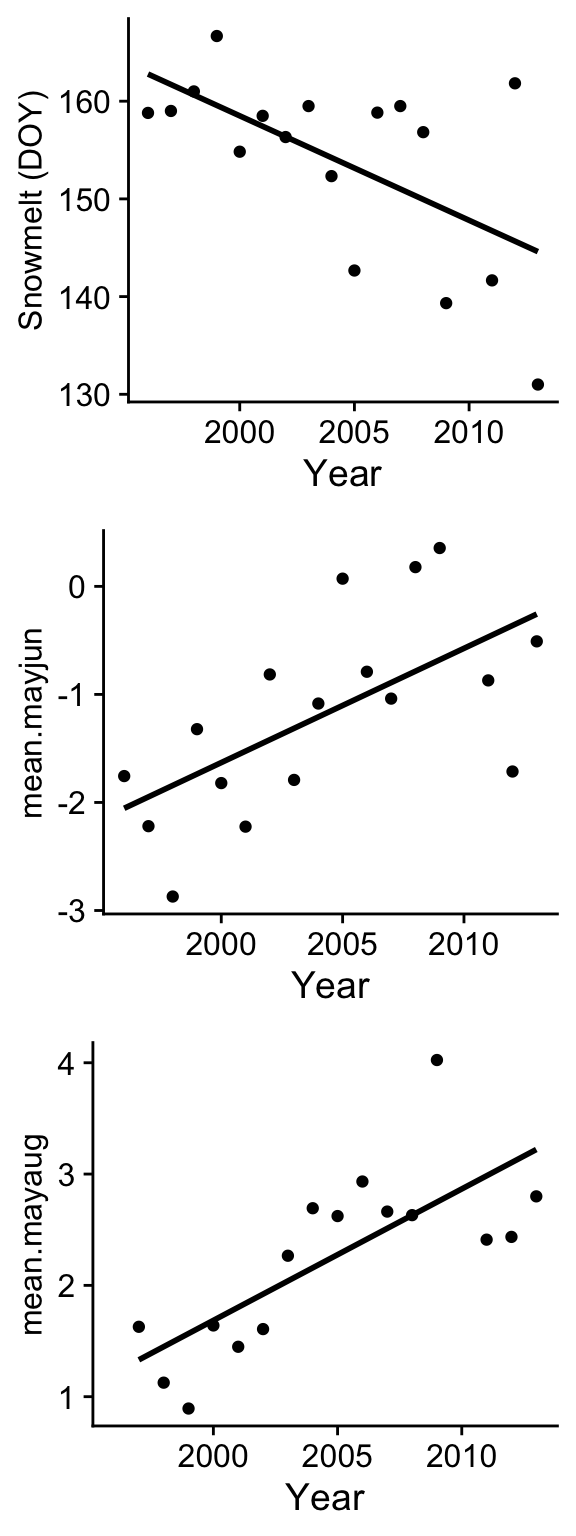
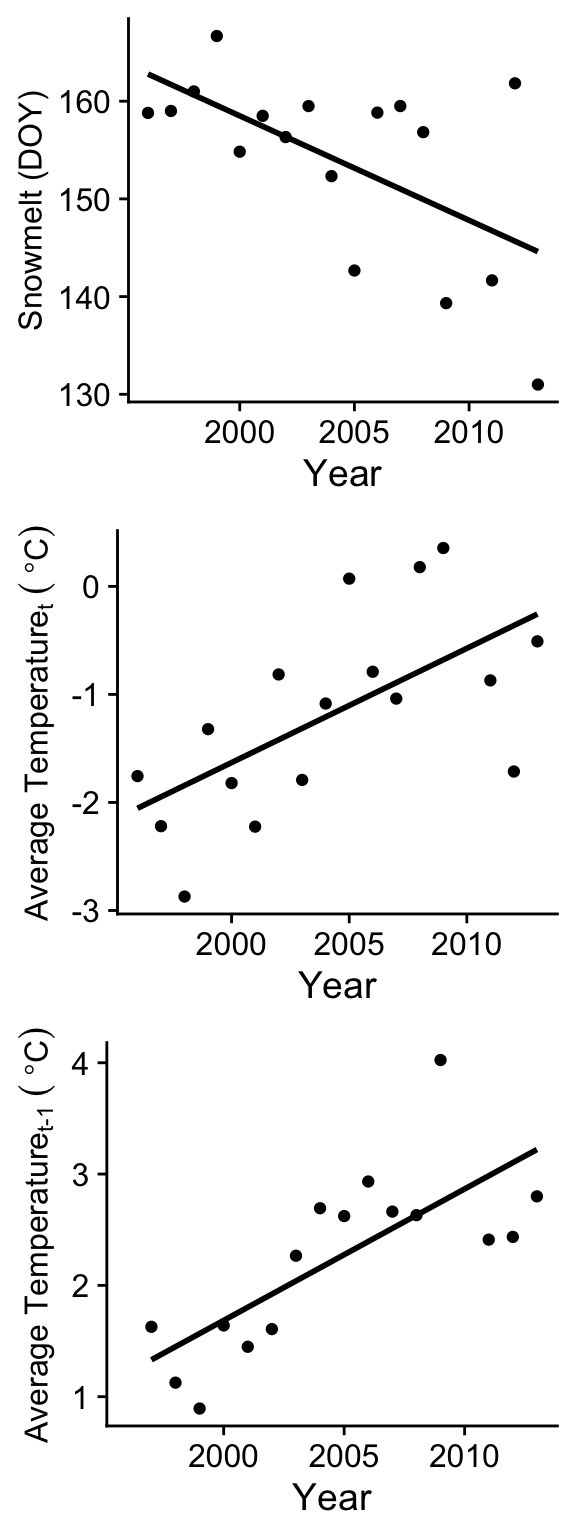
update module

diff --git a/Ex1.Plot_Bowden.html b/Ex1.Plot_Bowden.html
@@ -14,7 +14,7 @@
 
 <title>Worked Example: Plotting the change in butterfly size with climate change</title>
 
-<script src="site_libs/header-attrs-2.16/header-attrs.js"></script>
+<script src="site_libs/header-attrs-2.21/header-attrs.js"></script>
 <script src="site_libs/jquery-3.6.0/jquery-3.6.0.min.js"></script>
 <meta name="viewport" content="width=device-width, initial-scale=1" />
 <link href="site_libs/bootstrap-3.3.5/css/sandstone.min.css" rel="stylesheet" />
@@ -182,8 +182,8 @@ $(document).ready(function () {
   border-radius: 4px;
 }
 
-.tabset-dropdown > .nav-tabs > li.active:before {
-  content: "";
+.tabset-dropdown > .nav-tabs > li.active:before, .tabset-dropdown > .nav-tabs.nav-tabs-open:before {
+  content: "\e259";
   font-family: 'Glyphicons Halflings';
   display: inline-block;
   padding: 10px;
@@ -191,16 +191,9 @@ $(document).ready(function () {
 }
 
 .tabset-dropdown > .nav-tabs.nav-tabs-open > li.active:before {
-  content: "&#xe258;";
-  border: none;
-}
-
-.tabset-dropdown > .nav-tabs.nav-tabs-open:before {
-  content: "";
+  content: "\e258";
   font-family: 'Glyphicons Halflings';
-  display: inline-block;
-  padding: 10px;
-  border-right: 1px solid #ddd;
+  border: none;
 }
 
 .tabset-dropdown > .nav-tabs > li.active {
@@ -350,7 +343,7 @@ div.tocify {
 <h1 class="title toc-ignore">Worked Example: Plotting the change in
 butterfly size with climate change</h1>
 <h4 class="author">Dai Shizuka</h4>
-<h4 class="date">updated 11/15/22</h4>
+<h4 class="date">updated 09/28/23</h4>
 
 </div>
 
@@ -384,10 +377,11 @@ id="fnref1"><sup>1</sup></a> This study used a 17-year dataset on wing
 lengths of two butterfly species in Greenland to show that both species
 follow the “temperature-size” rule, which posits that higher
 temperatures generally select for smaller adult body size.</p>
-<div class="figure">
-<img src="images/butterflies.png" alt="" />
-<p class="caption"><em>Boloria chariclea</em> and <em>Colias
-hecla</em></p>
+<div class="float">
+<img src="images/butterflies.png"
+alt="Boloria chariclea and Colias hecla" />
+<div class="figcaption"><em>Boloria chariclea</em> and <em>Colias
+hecla</em></div>
 </div>
 <p>Aside from it being an interesting story, I chose this paper as an
 example for several reasons. First, the data are pretty
@@ -446,12 +440,13 @@ panels and shows how the snowmelt dat, average May-June temperature, and
 average May-August temperature (of the previous year) has changed across
 the study period. They present this as a scatterplot and a simple linear
 regression fit line.</p>
-<div class="figure">
-<img src="images/Ex1_Fig1.png" alt="" />
-<p class="caption">Figure 1 from Bowden et al. (2015): (a) Timing of
-snowmelt (<span class="math inline">\(F_{1,16}\)</span> = 8.92, estimate
-= -1.05, <span class="math inline">\(R^2_{Adj}\)</span> = 0.32, <span
-class="math inline">\(p\)</span> &lt; 0.008), (b) <span
+<div class="float">
+<img src="images/Ex1_Fig1.png"
+alt="Figure 1 from Bowden et al. (2015): (a) Timing of snowmelt (F_{1,16} = 8.92, estimate = -1.05, R^2_{Adj} = 0.32, p &lt; 0.008), (b) May-June_t temperature (F_{1,16} = 10.87, estimate = 0.11, R^2_{Adj} = 0.37, p &lt; 0.005) and (c) May-June_{t-1} temperature (F_{1,16} = 22.52, estimate = 0.11, R^2_{Adj} = 0.56, p &lt; 0.001) from 1996-2013 at Zackenberg, Greenland" />
+<div class="figcaption">Figure 1 from Bowden et al. (2015): (a) Timing
+of snowmelt (<span class="math inline">\(F_{1,16}\)</span> = 8.92,
+estimate = -1.05, <span class="math inline">\(R^2_{Adj}\)</span> = 0.32,
+<span class="math inline">\(p\)</span> &lt; 0.008), (b) <span
 class="math inline">\(May-June_t\)</span> temperature (<span
 class="math inline">\(F_{1,16}\)</span> = 10.87, estimate = 0.11, <span
 class="math inline">\(R^2_{Adj}\)</span> = 0.37, <span
@@ -460,7 +455,7 @@ class="math inline">\(May-June_{t-1}\)</span> temperature (<span
 class="math inline">\(F_{1,16}\)</span> = 22.52, estimate = 0.11, <span
 class="math inline">\(R^2_{Adj}\)</span> = 0.56, <span
 class="math inline">\(p\)</span> &lt; 0.001) from 1996-2013 at
-Zackenberg, Greenland</p>
+Zackenberg, Greenland</div>
 </div>
 <p><strong>Alright, let’s try to re-create this!</strong></p>
 <div id="multi-panel-scatterplot-using-ggplot-and-cowplot"
@@ -518,29 +513,29 @@ this plot by using <code>stat_smooth(method="lm")</code>:</p>
   geom_point() +
   stat_smooth(method=&quot;lm&quot;)
 p1</code></pre>
-<pre><code>## `geom_smooth()` using formula &#39;y ~ x&#39;</code></pre>
+<pre><code>## `geom_smooth()` using formula = &#39;y ~ x&#39;</code></pre>
 <p><img src="Ex1.Plot_Bowden_files/figure-html/unnamed-chunk-5-1.png" width="384" /></p>
 <p>Let’s get rid of the confidence interval and make the line black.</p>
 <pre class="r"><code>p1=ggplot(year.dat, aes(x=year, y=mean.snow)) +
   geom_point() +
   stat_smooth(method=&quot;lm&quot;, se=FALSE, color=&quot;black&quot;)
 p1</code></pre>
-<pre><code>## `geom_smooth()` using formula &#39;y ~ x&#39;</code></pre>
+<pre><code>## `geom_smooth()` using formula = &#39;y ~ x&#39;</code></pre>
 <p><img src="Ex1.Plot_Bowden_files/figure-html/unnamed-chunk-6-1.png" width="384" /></p>
 <p>We can plot the other two panels in the same way:</p>
 <pre class="r"><code>p2=ggplot(year.dat, aes(x=year, y=mean.mayjun)) +
   geom_point() +
   stat_smooth(method=&quot;lm&quot;, se=FALSE, color=&quot;black&quot;)
 p2</code></pre>
-<pre><code>## `geom_smooth()` using formula &#39;y ~ x&#39;</code></pre>
+<pre><code>## `geom_smooth()` using formula = &#39;y ~ x&#39;</code></pre>
 <p><img src="Ex1.Plot_Bowden_files/figure-html/unnamed-chunk-7-1.png" width="384" /></p>
 <pre class="r"><code>p3=ggplot(year.dat, aes(x=year, y=mean.mayaug)) +
   geom_point() +
   stat_smooth(method=&quot;lm&quot;, se=FALSE, color=&quot;black&quot;)
 p3</code></pre>
-<pre><code>## `geom_smooth()` using formula &#39;y ~ x&#39;</code></pre>
-<pre><code>## Warning: Removed 1 rows containing non-finite values (stat_smooth).</code></pre>
-<pre><code>## Warning: Removed 1 rows containing missing values (geom_point).</code></pre>
+<pre><code>## `geom_smooth()` using formula = &#39;y ~ x&#39;</code></pre>
+<pre><code>## Warning: Removed 1 rows containing non-finite values (`stat_smooth()`).</code></pre>
+<pre><code>## Warning: Removed 1 rows containing missing values (`geom_point()`).</code></pre>
 <p><img src="Ex1.Plot_Bowden_files/figure-html/unnamed-chunk-8-1.png" width="384" /></p>
 <p>Now, we’ve created 3 different scatterplots. But what we want is to
 make one figure with 3 panels arranged vertically. How do we do
@@ -549,12 +544,13 @@ that?</p>
 making multi-panel plots very easy (The “cow” in “cowplot” stands for
 Claus O. Wilkes, who wrote the package).</p>
 <pre class="r"><code>plot_grid(p1, p2, p3, align=&quot;v&quot;, nrow=3) </code></pre>
-<pre><code>## `geom_smooth()` using formula &#39;y ~ x&#39;
-## `geom_smooth()` using formula &#39;y ~ x&#39;
-## `geom_smooth()` using formula &#39;y ~ x&#39;</code></pre>
-<pre><code>## Warning: Removed 1 rows containing non-finite values (stat_smooth).</code></pre>
-<pre><code>## Warning: Removed 1 rows containing missing values (geom_point).</code></pre>
-<p><img src="Ex1.Plot_Bowden_files/figure-html/unnamed-chunk-9-1.png" width="288" /></p>
+<pre><code>## `geom_smooth()` using formula = &#39;y ~ x&#39;
+## `geom_smooth()` using formula = &#39;y ~ x&#39;
+## `geom_smooth()` using formula = &#39;y ~ x&#39;</code></pre>
+<pre><code>## Warning: Removed 1 rows containing non-finite values (`stat_smooth()`).</code></pre>
+<pre><code>## Warning: Removed 1 rows containing missing values (`geom_point()`).</code></pre>
+<p><img src="Ex1.Plot_Bowden_files/figure-html/unnamed-chunk-9-1.png" width="288" />
+Now let’s clean up the theme and axis labels.</p>
 <pre class="r"><code>p1=ggplot(year.dat, aes(x=year, y=mean.snow)) +
   geom_point() +
   stat_smooth(method=&quot;lm&quot;, se=FALSE, color=&quot;black&quot;) +
@@ -566,7 +562,7 @@ p2=ggplot(year.dat, aes(x=year, y=mean.mayjun)) +
   geom_point() +
   stat_smooth(method=&quot;lm&quot;, se=FALSE, color=&quot;black&quot;) +
   theme_cowplot() +
-  labs(expression(paste(&quot;Average Temperature&quot;[&quot;t&quot;], 
+  labs(y=expression(paste(&quot;Average Temperature&quot;[&quot;t&quot;], 
     &quot; &quot;, (~degree * C))), x=&quot;Year&quot;) +
   theme(axis.title.y = element_text(size=12))
 
@@ -574,18 +570,17 @@ p3=ggplot(year.dat, aes(x=year, y=mean.mayaug)) +
   geom_point() +
   stat_smooth(method=&quot;lm&quot;, se=FALSE, color=&quot;black&quot;) +
   theme_cowplot() +
-  labs(expression(paste(&quot;Average Temperature&quot;[&quot;t-1&quot;], &quot; &quot;, 
+  labs(y=expression(paste(&quot;Average Temperature&quot;[&quot;t-1&quot;], &quot; &quot;, 
         (~degree * C))), x=&quot;Year&quot;) + 
   theme(axis.title.y = element_text(size=12))
 
 plot_grid(p1, p2, p3, nrow=3)</code></pre>
-<pre><code>## `geom_smooth()` using formula &#39;y ~ x&#39;
-## `geom_smooth()` using formula &#39;y ~ x&#39;
-## `geom_smooth()` using formula &#39;y ~ x&#39;</code></pre>
-<pre><code>## Warning: Removed 1 rows containing non-finite values (stat_smooth).</code></pre>
-<pre><code>## Warning: Removed 1 rows containing missing values (geom_point).</code></pre>
+<pre><code>## `geom_smooth()` using formula = &#39;y ~ x&#39;
+## `geom_smooth()` using formula = &#39;y ~ x&#39;
+## `geom_smooth()` using formula = &#39;y ~ x&#39;</code></pre>
+<pre><code>## Warning: Removed 1 rows containing non-finite values (`stat_smooth()`).</code></pre>
+<pre><code>## Warning: Removed 1 rows containing missing values (`geom_point()`).</code></pre>
 <p><img src="Ex1.Plot_Bowden_files/figure-html/unnamed-chunk-10-1.png" width="288" /></p>
-<p>We won’t worry about the minutiae of the axis labels.</p>
 <hr />
 </div>
 </div>
@@ -873,14 +868,15 @@ with the average wing length of males and females (and error bars) for
 each species (panels <em>a</em> and <em>b</em>), and the relationship
 between average wing length and the average May-August temperature of
 the previous year (panels <em>c</em> and <em>d</em>).</p>
-<div class="figure">
-<img src="images/Ex1_Fig2.png" alt="" />
-<p class="caption">Figure 2 from Bowden et al. (2015): <em>Inter-annual
-variation in average male (open circles) and female (filled circles)
-wing length over the sampling period for (a) Colias hecla and (b)
-Boloria chariclea and their responses (c,d, respectively) to average
-May–Augustt21 temperature. Error bars represent s.e. Data for 2010 are
-not available.</em></p>
+<div class="float">
+<img src="images/Ex1_Fig2.png"
+alt="Figure 2 from Bowden et al. (2015): Inter-annual variation in average male (open circles) and female (filled circles) wing length over the sampling period for (a) Colias hecla and (b) Boloria chariclea and their responses (c,d, respectively) to average May–Augustt21 temperature. Error bars represent s.e. Data for 2010 are not available." />
+<div class="figcaption">Figure 2 from Bowden et al. (2015):
+<em>Inter-annual variation in average male (open circles) and female
+(filled circles) wing length over the sampling period for (a) Colias
+hecla and (b) Boloria chariclea and their responses (c,d, respectively)
+to average May–Augustt21 temperature. Error bars represent s.e. Data for
+2010 are not available.</em></div>
 </div>
 <hr />
 <div
@@ -995,7 +991,7 @@ sex:</p>
 ##  8  1999 m        22.4 0.191
 ##  9  2000 f        22.9 0.258
 ## 10  2000 m        22.5 0.150
-## # … with 24 more rows</code></pre>
+## # ℹ 24 more rows</code></pre>
 <p>Now we have the standard error values that correspond with each of
 the dots on the plot in our dataframe!</p>
 <hr />
@@ -1039,7 +1035,7 @@ p.2a</code></pre>
   theme_cowplot() +
   labs(y=&quot;Average Wing Length (mm)&quot;)
 p.2b</code></pre>
-<pre><code>## Warning: Removed 1 rows containing missing values (geom_point).</code></pre>
+<pre><code>## Warning: Removed 1 rows containing missing values (`geom_point()`).</code></pre>
 <p><img src="Ex1.Plot_Bowden_files/figure-html/unnamed-chunk-36-1.png" width="672" /></p>
 <p><em>You’ll notice that there is the data for 2003 is missing for
 females.</em> This is because there is a missing data point, and
@@ -1115,7 +1111,7 @@ chariclea</strong></p></li>
 snowmelt/temperature data. We can do that using a <code>_join()</code>
 function in dplyr. Here, we’ll use <code>left_join()</code>:</p>
 <pre class="r"><code>wl.colias %&gt;% left_join(., year.dat)</code></pre>
-<pre><code>## Joining, by = &quot;year&quot;</code></pre>
+<pre><code>## Joining with `by = join_by(year)`</code></pre>
 <pre><code>## # A tibble: 34 × 7
 ## # Groups:   year [17]
 ##     year sex   mean.WL se.WL mean.snow mean.mayjun mean.mayaug
@@ -1130,11 +1126,11 @@ function in dplyr. Here, we’ll use <code>left_join()</code>:</p>
 ##  8  1999 m        22.4 0.191      167.       -1.32       0.894
 ##  9  2000 f        22.9 0.258      155.       -1.82       1.64 
 ## 10  2000 m        22.5 0.150      155.       -1.82       1.64 
-## # … with 24 more rows</code></pre>
+## # ℹ 24 more rows</code></pre>
 <pre class="r"><code>wl.colias=wl.colias %&gt;% left_join(., year.dat)</code></pre>
-<pre><code>## Joining, by = &quot;year&quot;</code></pre>
+<pre><code>## Joining with `by = join_by(year)`</code></pre>
 <pre class="r"><code>wl.boloria=wl.boloria %&gt;% left_join(., year.dat)</code></pre>
-<pre><code>## Joining, by = &quot;year&quot;</code></pre>
+<pre><code>## Joining with `by = join_by(year)`</code></pre>
 <p>Now, we can make a scatterplot for each species’ winglength by the
 annual average temperature (May-August) where the average female wing
 lengths are filled black and males are filled white + add the linear
@@ -1143,9 +1139,9 @@ regression line as we did with Figure 1.</p>
   geom_point(pch=21, size=2) +
   scale_fill_manual(values=c(&quot;black&quot;, &quot;white&quot;)) +
   stat_smooth(method=&quot;lm&quot;, se=F, color=&quot;black&quot;) </code></pre>
-<pre><code>## `geom_smooth()` using formula &#39;y ~ x&#39;</code></pre>
-<pre><code>## Warning: Removed 2 rows containing non-finite values (stat_smooth).</code></pre>
-<pre><code>## Warning: Removed 2 rows containing missing values (geom_point).</code></pre>
+<pre><code>## `geom_smooth()` using formula = &#39;y ~ x&#39;</code></pre>
+<pre><code>## Warning: Removed 2 rows containing non-finite values (`stat_smooth()`).</code></pre>
+<pre><code>## Warning: Removed 2 rows containing missing values (`geom_point()`).</code></pre>
 <p><img src="Ex1.Plot_Bowden_files/figure-html/unnamed-chunk-42-1.png" width="672" /></p>
 <p>Let’s make it prettier and save it as <code>p.2c</code></p>
 <pre class="r"><code>p.2c=ggplot(wl.colias, aes(x=mean.mayaug, y=mean.WL, fill=sex)) +
@@ -1155,9 +1151,9 @@ regression line as we did with Figure 1.</p>
   theme_cowplot() +
   labs(x = &quot;May-Aug temp (t-1)&quot;, y = &quot;average wing length (mm)&quot;)
 p.2c</code></pre>
-<pre><code>## `geom_smooth()` using formula &#39;y ~ x&#39;</code></pre>
-<pre><code>## Warning: Removed 2 rows containing non-finite values (stat_smooth).</code></pre>
-<pre><code>## Warning: Removed 2 rows containing missing values (geom_point).</code></pre>
+<pre><code>## `geom_smooth()` using formula = &#39;y ~ x&#39;</code></pre>
+<pre><code>## Warning: Removed 2 rows containing non-finite values (`stat_smooth()`).</code></pre>
+<pre><code>## Warning: Removed 2 rows containing missing values (`geom_point()`).</code></pre>
 <p><img src="Ex1.Plot_Bowden_files/figure-html/unnamed-chunk-43-1.png" width="672" /></p>
 <p>We can do the same thing with <em>Boloria</em>:</p>
 <pre class="r"><code>p.2d=ggplot(wl.boloria, aes(x=mean.mayaug, y=mean.WL, fill=sex)) +
@@ -1167,9 +1163,9 @@ p.2c</code></pre>
   theme_cowplot() +
   labs(x = &quot;May-Aug temp (t-1)&quot;, y = &quot;average wing length (mm)&quot;)
 p.2d</code></pre>
-<pre><code>## `geom_smooth()` using formula &#39;y ~ x&#39;</code></pre>
-<pre><code>## Warning: Removed 2 rows containing non-finite values (stat_smooth).</code></pre>
-<pre><code>## Warning: Removed 2 rows containing missing values (geom_point).</code></pre>
+<pre><code>## `geom_smooth()` using formula = &#39;y ~ x&#39;</code></pre>
+<pre><code>## Warning: Removed 2 rows containing non-finite values (`stat_smooth()`).</code></pre>
+<pre><code>## Warning: Removed 2 rows containing missing values (`geom_point()`).</code></pre>
 <p><img src="Ex1.Plot_Bowden_files/figure-html/unnamed-chunk-44-1.png" width="672" /></p>
 </div>
 <div id="create-figure-2" class="section level2">
